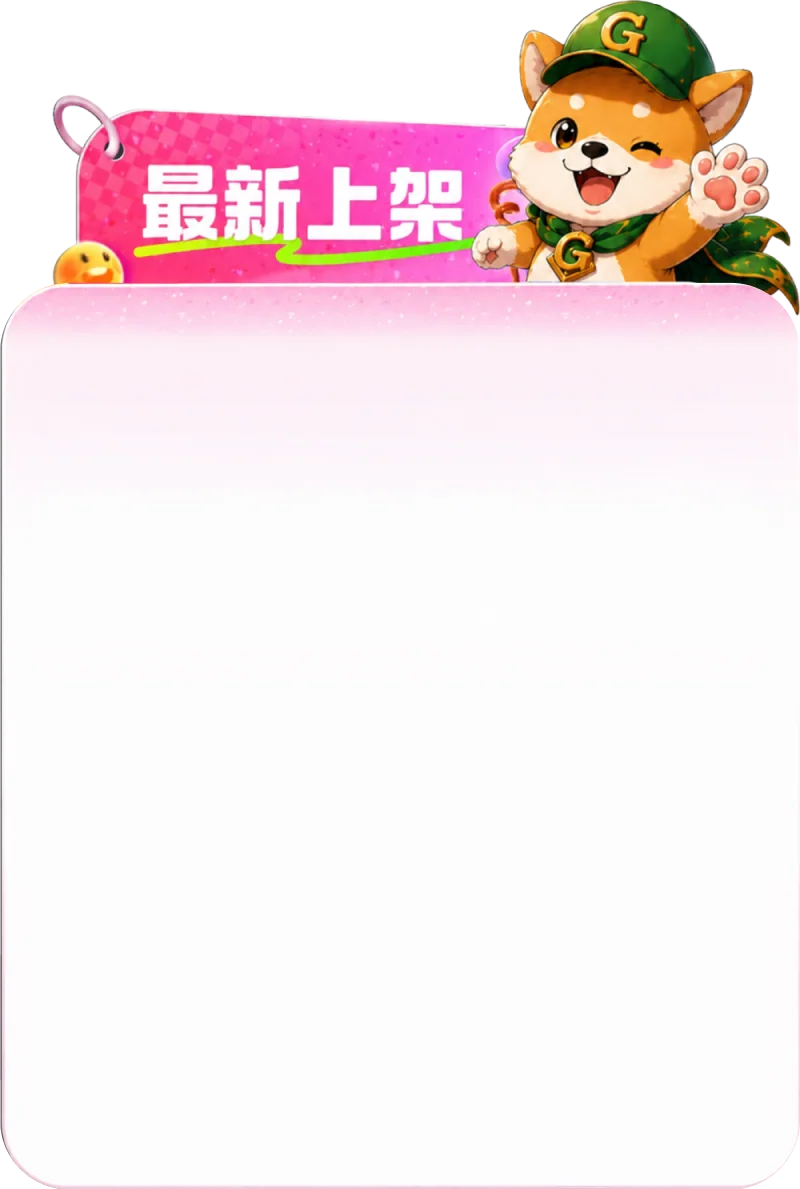
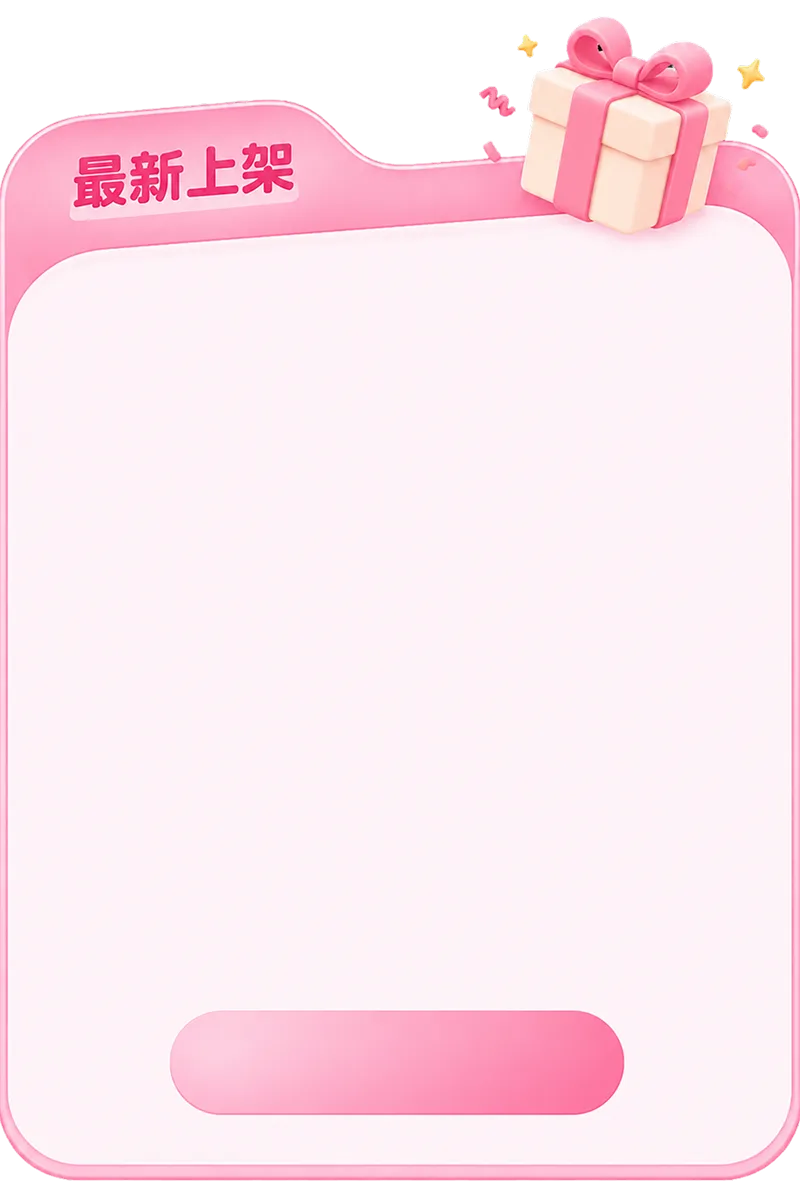
feat(promo): 「最新上架」彈窗換底圖（規格同公告模板）、清單區重排、膠囊鈕「來去看看」關閉
- new_item.png → WebP 覆蓋 new_item.webp（29KB）
- PANEL top 22.5% / bottom 16.5%，停在底圖膠囊鈕上方；PILL 量測值疊按鈕文字
- 「還有更多」漸層改用內板淡粉色
- DEVLOG v2026.09.03a 補上

Changed region(s): [[0.0, 0.0, 1.0, 1.0]]

diff --git a/frontend/components/promo/PromoPopup.tsx b/frontend/components/promo/PromoPopup.tsx
@@ -32,14 +32,17 @@ const TEMPLATE_BG = asset('/images/bg.webp');
 const NEW_ARRIVAL_BG = asset('/images/new_item.webp');
 
 /**
- * 外框裡那塊白板的內容區。
+ * 外框裡那塊淡粉內板的內容區。
  *
- * 2026-08-12 換圖：新的外框是 800×1189（與公告模板 bg.webp 同尺寸），
- * 白板幾乎滿版 —— sharp 量原圖得 top 28.01% / bottom 0.25% / 左右各約 0.25%。
- * 這裡再往內縮出留白：上緣避開粉紅漸層、左右不要貼著圓角。
- * 上下留得比較緊（29% / 1.5%），把高度盡量讓給清單。
+ * 2026-09-03 換圖（老闆：規格改成跟公告模板 bg.webp 一樣，800×1189、底部有一顆膠囊鈕）。
+ * 掃描線量原圖：標題頁籤下緣 20.9%、內板左右 1%～98.9%、膠囊鈕 84.95%～93.78%。
+ * 這裡再往內縮出留白：上緣避開頁籤、下緣停在膠囊鈕上方、左右不要貼著圓角。
  */
-const PANEL = { top: '29%', bottom: '1.5%', left: '6%', right: '6%' };
+const PANEL = { top: '22.5%', bottom: '16.5%', left: '6%', right: '6%' };
+/** 底圖上已經畫好的粉紅膠囊鈕（量測值），按鈕文字疊上去；跟公告模板的橘色藥丸同一個做法 */
+const PILL = { left: '21.25%', top: '84.95%', width: '56.75%', height: '8.83%' };
+/** 內板的底色（量自原圖），「還有更多」的漸層要用它，白色會在淡粉板上浮出一塊 */
+const PANEL_COLOR = '#fef3f8';
 
 /** 商品頁網址：與 ProductCard 同一套規則，不要兩邊各寫一份 */
 const productHref = (p: NewArrivalProduct) =>
@@ -335,9 +338,23 @@ export default function PromoPopup({ placement = 'home' }: { placement?: string 
                       初始畫面常常剛好停在某一列的結尾，沒有這道漸層看不出來可以捲。
                       pointer-events-none 才不會擋到最後一列的點擊 */}
                   {visibleCount < (promo.products?.length ?? 0) && (
-                    <span className="pointer-events-none absolute inset-x-0 bottom-0 h-6 bg-gradient-to-t from-white to-transparent" />
+                    <span
+                      className="pointer-events-none absolute inset-x-0 bottom-0 h-6"
+                      style={{ background: `linear-gradient(to top, ${PANEL_COLOR}, transparent)` }}
+                    />
                   )}
                 </div>
+
+                {/* 底圖畫好的粉紅膠囊鈕：「來去看看」＝關掉這一則、留在首頁（老闆 2026-09-03）。
+                    走 go(null) 才會推佇列（見上面 go 的說明），只 setVisible 會卡住下一則 */}
+                <button
+                  type="button"
+                  onClick={go(null)}
+                  className="absolute flex items-center justify-center text-white text-[15px] font-black active:scale-[0.97] transition-transform duration-300"
+                  style={{ ...PILL, opacity: bgReady ? 1 : 0 }}
+                >
+                  來去看看
+                </button>
               </div>
             ) : isImageOnly ? (
               /* 與卡片版同比例，多則排隊時尺寸才不會忽大忽小。

diff --git a/DEVLOG.md b/DEVLOG.md
@@ -81,6 +81,15 @@ PROD 的 `banners`／`site_promos` 都沒有連到 `/announcements` 的（各 0 
 - Playwright 用 iPhone 視口驗過三個狀態：剛進不顯示 → 下滑降到底（bottom 6px）
   → 往上撥升回警語列上面（bottom 103px）
 
+### 「最新上架」彈窗換底圖（老闆 2026-09-03）
+- 新圖 `new_item.png` 800×1189，規格照公告模板 `bg.webp`（底部多一顆粉紅膠囊鈕）。
+  sharp 轉 WebP 覆蓋 `public/images/new_item.webp`（635KB → 29KB）；PNG 原檔留在原地、不進 git
+- 清單內容區照掃描線量測重排：標題頁籤下緣 20.9%、膠囊鈕 84.95%～93.78%，
+  `PANEL` 從 top 29% / bottom 1.5% 改成 top 22.5% / bottom 16.5%（停在膠囊鈕上方）
+- 膠囊鈕疊上「來去看看」＝關掉這一則、留在首頁（老闆指定），走 `go(null)` 才會推佇列
+- 「還有更多」的底部漸層從白色改成內板的淡粉（`#fef3f8`），白色會在粉板上浮出一塊
+- Playwright 驗過：彈窗出現、按鈕在膠囊位置、點了彈窗關閉且網址仍是首頁
+
 ### 資訊頁頂部拿掉「登入拿積分」（老闆 2026-09-03）
 常見問題／關於我們／會員條款／隱私權政策／退換貨資訊是看資料的頁，手機頂部不擺登入鈕
 （`Navbar` 的 `NO_LOGIN_BUTTON_PATHS`）。桌機那條維持。
